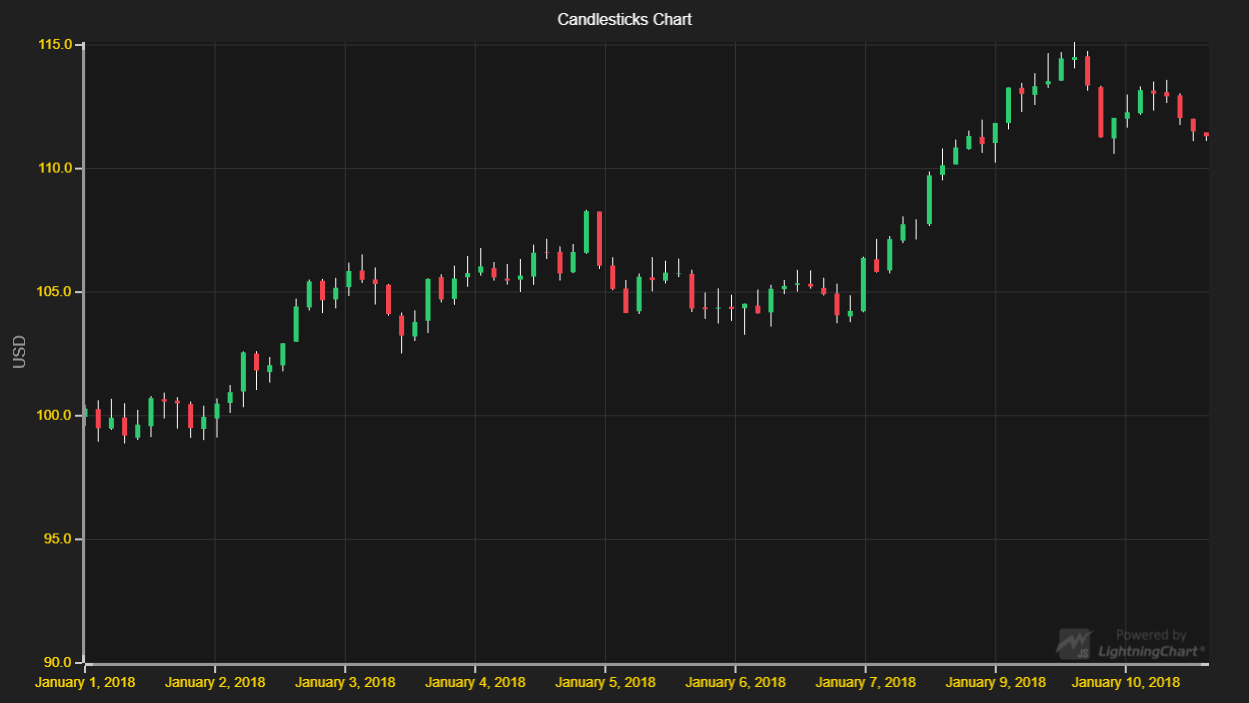
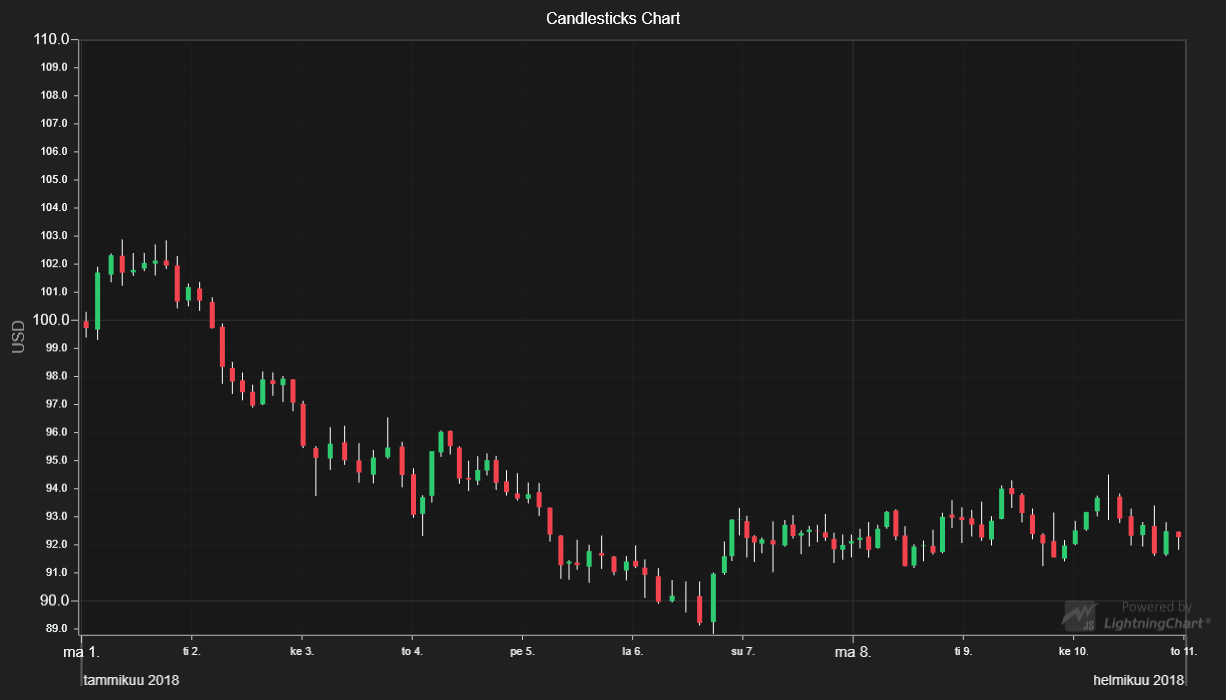
LCJS 2.0.0

diff --git a/src/index.js b/src/index.js
@@ -10,7 +10,8 @@ const {
     AxisTickStrategies,
     OHLCFigures,
     emptyLine,
-    AxisScrollStrategies
+    AxisScrollStrategies,
+    Themes
 } = lcjs
 
 // Import data-generator from 'xydata'-library.
@@ -21,18 +22,25 @@ const {
 // Decide on an origin for DateTime axis.
 const dateOrigin = new Date(2018, 0, 1)
 
-// Create a XY Chart with DateTime X-axis using previously defined origin.
-
+// Create a XY Chart.
 const chart = lightningChart().ChartXY({
-    defaultAxisXTickStrategy: AxisTickStrategies.DateTime(dateOrigin)
+    // theme: Themes.dark
 })
-    .setTitle('Candlesticks Chart')
-    // Style AutoCursor using preset.
-    .setAutoCursor(cursor => {
-        cursor.disposeTickMarkerY()
-        cursor.setGridStrokeYStyle(emptyLine)
-    })
-    .setPadding({ right: 40 })
+// Use DateTime X-axis using with above defined origin.
+chart
+    .getDefaultAxisX()
+    .setTickStrategy(
+        AxisTickStrategies.DateTime,
+        (tickStrategy) => tickStrategy.setDateOrigin(dateOrigin)
+    )
+
+chart.setTitle('Candlesticks Chart')
+// Style AutoCursor using preset.
+chart.setAutoCursor(cursor => {
+    cursor.disposeTickMarkerY()
+    cursor.setGridStrokeYStyle(emptyLine)
+})
+chart.setPadding({ right: 40 })
 
 // Change the title and behavior of the default Y Axis
 chart.getDefaultAxisY()

diff --git a/README.md b/README.md
@@ -66,12 +66,12 @@ Candlesticks are formed from two parts: *Body* and *Line*s. Both of these can be
 
 ## API Links
 
-* XY cartesian chart: [ChartXY]
-* Axis tick strategies: [AxisTickStrategies]
-* Figure types: [OHLCFigures]
-* OHLC series: [OHLCSeries]
-* XOHLC datastructure: [XOHLC]
-* OHLC generator: [OHLCGenerator]
+* [XY cartesian chart]
+* [Axis tick strategies]
+* [Figure types]
+* [OHLC series]
+* [XOHLC datastructure]
+* [OHLC generator]
 
 
 ## Support
@@ -95,10 +95,10 @@ Direct developer email support can be purchased through a [Support Plan][4] or b
 © Arction Ltd 2009-2020. All rights reserved.
 
 
-[ChartXY]: https://www.arction.com/lightningchart-js-api-documentation/v1.3.0/classes/chartxy.html
-[AxisTickStrategies]: https://www.arction.com/lightningchart-js-api-documentation/v1.3.0/globals.html#axistickstrategies
-[OHLCFigures]: https://www.arction.com/lightningchart-js-api-documentation/v1.3.0/globals.html#ohlcfigures
-[OHLCSeries]: https://www.arction.com/lightningchart-js-api-documentation/v1.3.0/classes/chartxy.html#addohlcseries
-[XOHLC]: https://www.arction.com/lightningchart-js-api-documentation/v1.3.0/globals.html#xohlc
-[OHLCGenerator]: https://arction.github.io/xydata/classes/ohlcgenerator.html
+[XY cartesian chart]: https://www.arction.com/lightningchart-js-api-documentation/v2.0.0/classes/chartxy.html
+[Axis tick strategies]: https://www.arction.com/lightningchart-js-api-documentation/v2.0.0/globals.html#axistickstrategies
+[Figure types]: https://www.arction.com/lightningchart-js-api-documentation/v2.0.0/globals.html#ohlcfigures
+[OHLC series]: https://www.arction.com/lightningchart-js-api-documentation/v2.0.0/classes/chartxy.html#addohlcseries
+[XOHLC datastructure]: https://www.arction.com/lightningchart-js-api-documentation/v2.0.0/globals.html#xohlc
+[OHLC generator]: https://arction.github.io/xydata/classes/ohlcgenerator.html
 
